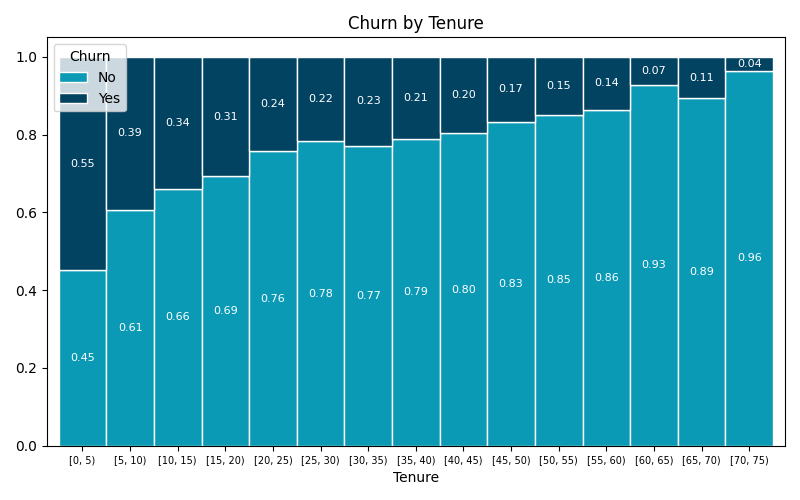
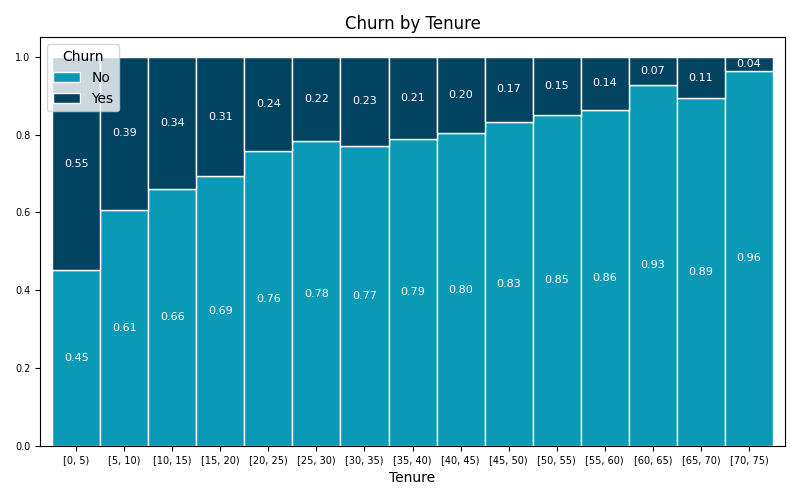
Updates.

diff --git a/graphs_generation.py b/graphs_generation.py
@@ -45,14 +45,35 @@ def monthly_total_churn_bar(summary):
     fig, ax = plt.subplots(figsize=(8, 5))
     bar_width = 0.9
     indices = np.arange(len(summary))
-    ax.bar(indices, summary['Yes'], bar_width, label='Churn Yes', color='#034362')
-    ax.bar(indices, summary['No'], bar_width, bottom=summary['Yes'], label='Churn No', color='#0B9AB6')
+
+    total_charges = summary['Yes'] + summary['No']
+    total_charges_sum = total_charges.sum()
+
+    bars_terminated = ax.bar(indices, summary['Yes'], bar_width, label='Terminated', color='#034362')
+    bars_active = ax.bar(indices, summary['No'], bar_width, bottom=summary['Yes'], label='Active', color='#0B9AB6')
     ax.set_title('Total Revenue by Monthly Charges and Churn')
     ax.set_xlabel('Monthly Charges')
     ax.set_ylabel('Total Charges')
     ax.set_xticks(indices)
     ax.set_xticklabels([f'{interval.left:.0f}-{interval.right:.0f}' for interval in summary.index], rotation=0)
+    plt.xticks(fontsize=7)
+    plt.yticks(fontsize=7)
     ax.legend()
+
+    for i, (bar_terminated, bar_active) in enumerate(zip(bars_terminated, bars_active)):
+        bar_total = bar_terminated.get_height() + bar_active.get_height()
+        percentage = (bar_total / total_charges_sum) * 100
+        ax.text(bar_terminated.get_x() + bar_terminated.get_width() / 2,
+                bar_total,
+                f'{percentage:.1f}%',
+                ha='center',
+                va='bottom',
+                fontsize=8)
+
+    explanation = (
+        "Percentage shows share of total charges \nof every monthly charges bin of \nall sum of total charges"
+    )
+    plt.gcf().text(0.32, 0.75, explanation, ha='center', va='top', fontsize=10, multialignment='left')
 
     plt.savefig('static/graphs/monthly_total_churn_bar.png')
     plt.close()
@@ -107,6 +128,7 @@ def summary_statistics_histogram(tenure_data, name):
     plt.hist(tenure_data, bins=25, color='#0B9AB6', edgecolor='w', alpha=0.95)
     plt.ylabel('Number of Contracts')
     plt.title(f'Distribution of {name.title()}')
+
     plt.savefig(f'static/graphs/{name.replace(" ", "_")}_histogram.png')
     plt.close()
 
@@ -120,6 +142,7 @@ def summary_statistics_boxplot(tenure_data, name):
     plt.yticks([])
     plt.xlabel(f'{name.title()}', fontsize=7)
     plt.tight_layout()
+
     plt.savefig(f'static/graphs/{name.replace(" ", "_")}_boxplot.png')
     plt.close()
 
@@ -130,10 +153,12 @@ def churn_bar(tenure_churn_data, name):
     plt.title(f'Churn by {name.title()}')
     plt.xlabel(f'{name.title()}')
     plt.xticks(rotation=0, fontsize=7)
+    plt.yticks(fontsize=7)
     plt.legend(title='Churn')
     for container in ax.containers:
         ax.bar_label(container, label_type='center', fmt='%.2f', fontsize=8, color='white')
     plt.tight_layout()
+
     plt.savefig(f'static/graphs/{name.replace(" ", "_")}_churn_bar.png')
     plt.close()
 
@@ -152,6 +177,7 @@ def two_bars(data, name, labels):
         plt.text(bar.get_x() + bar.get_width() / 2, yval - yval * 0.1, f'{round(yval / data_sum * 100)}%', va='top',
                  ha='center', color='white',
                  fontsize=10)
+
     plt.savefig(f'static/graphs/{name.replace(" ", "_")}_bar.png')
     plt.close()
 
@@ -214,7 +240,7 @@ def av_by_sociodem_line(sociodem_data, name, data_function):
     plt.xticks(ticks=[0, 1], labels=['No', 'Yes'])
     y_ticks = np.arange(0, data_function.iloc[-1] + 1, 10)
     plt.yticks(ticks=y_ticks, labels=[str(int(round(tick))) for tick in y_ticks])
-    plt.yticks(fontsize=6)
+    plt.yticks(fontsize=7)
     plt.legend()
 
     plt.savefig(f'static/graphs/{name.replace(" ", "_")}_by_sociodem_line.png')

diff --git a/functions.py b/functions.py
@@ -107,7 +107,8 @@ def monthly_total_charges_churn():
     data['Total_Charges'] = pd.to_numeric(data['Total_Charges'], errors='coerce')
     data.dropna(subset=['Total_Charges'])
 
-    bins = np.arange(10, 120, 10)
+    bins = np.arange(10, max(list(monthly_charges())) + 10, 10)
+
     data['Monthly_Charges_bin'] = pd.cut(data['Monthly_Charges'], bins=bins)
 
     monthly_total_churn_summary = data.groupby(['Monthly_Charges_bin', 'Churn'])[
